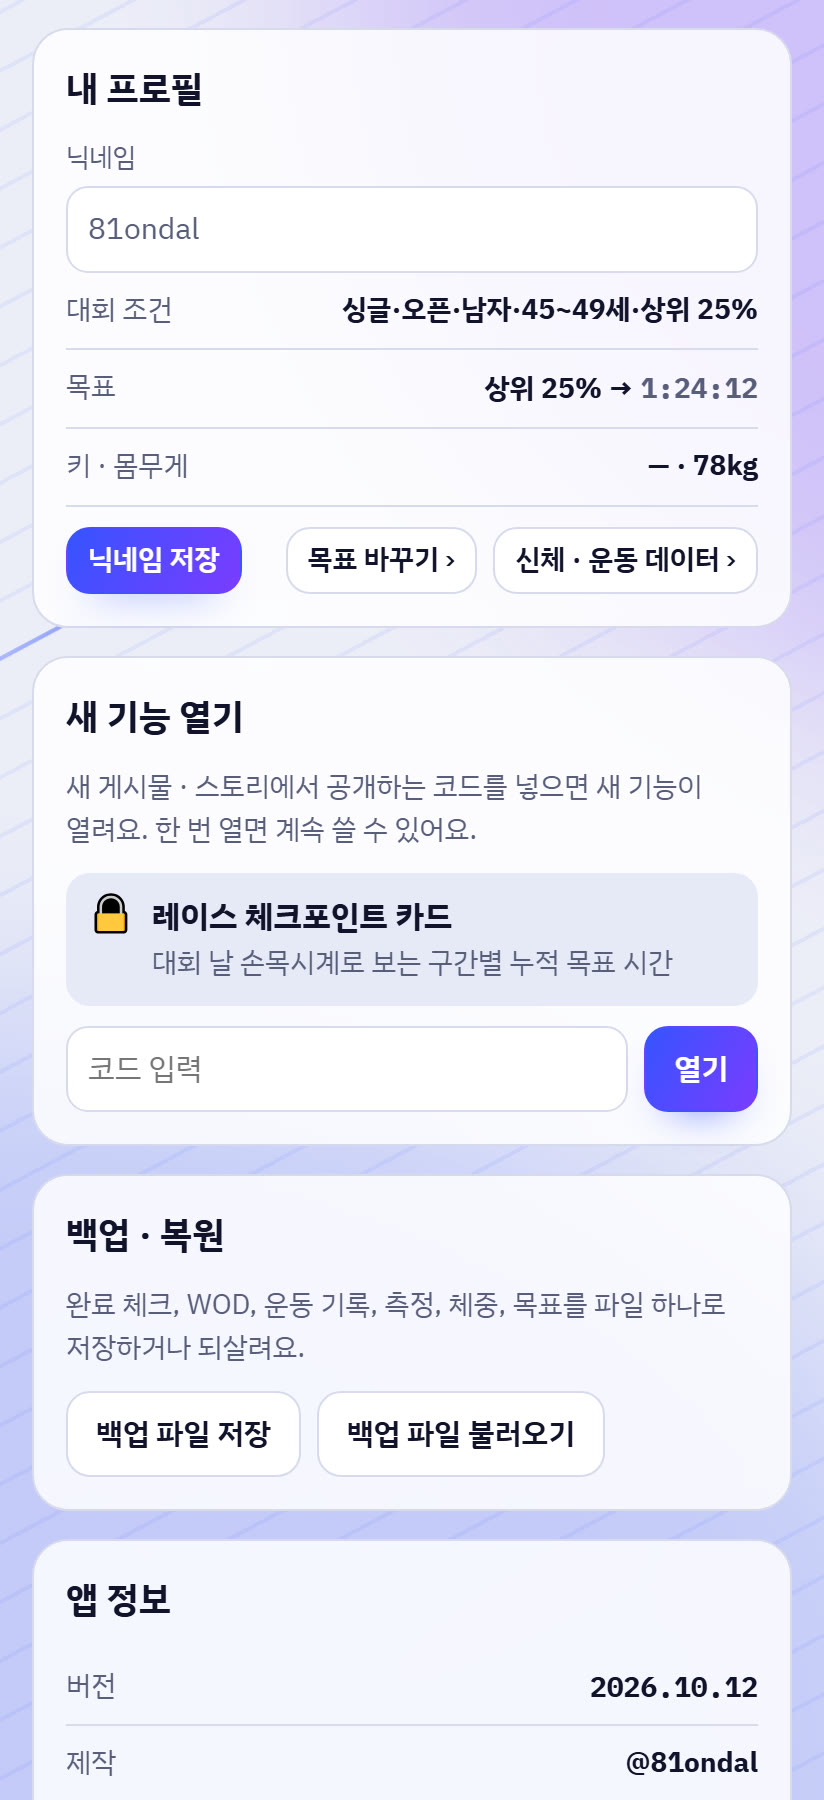
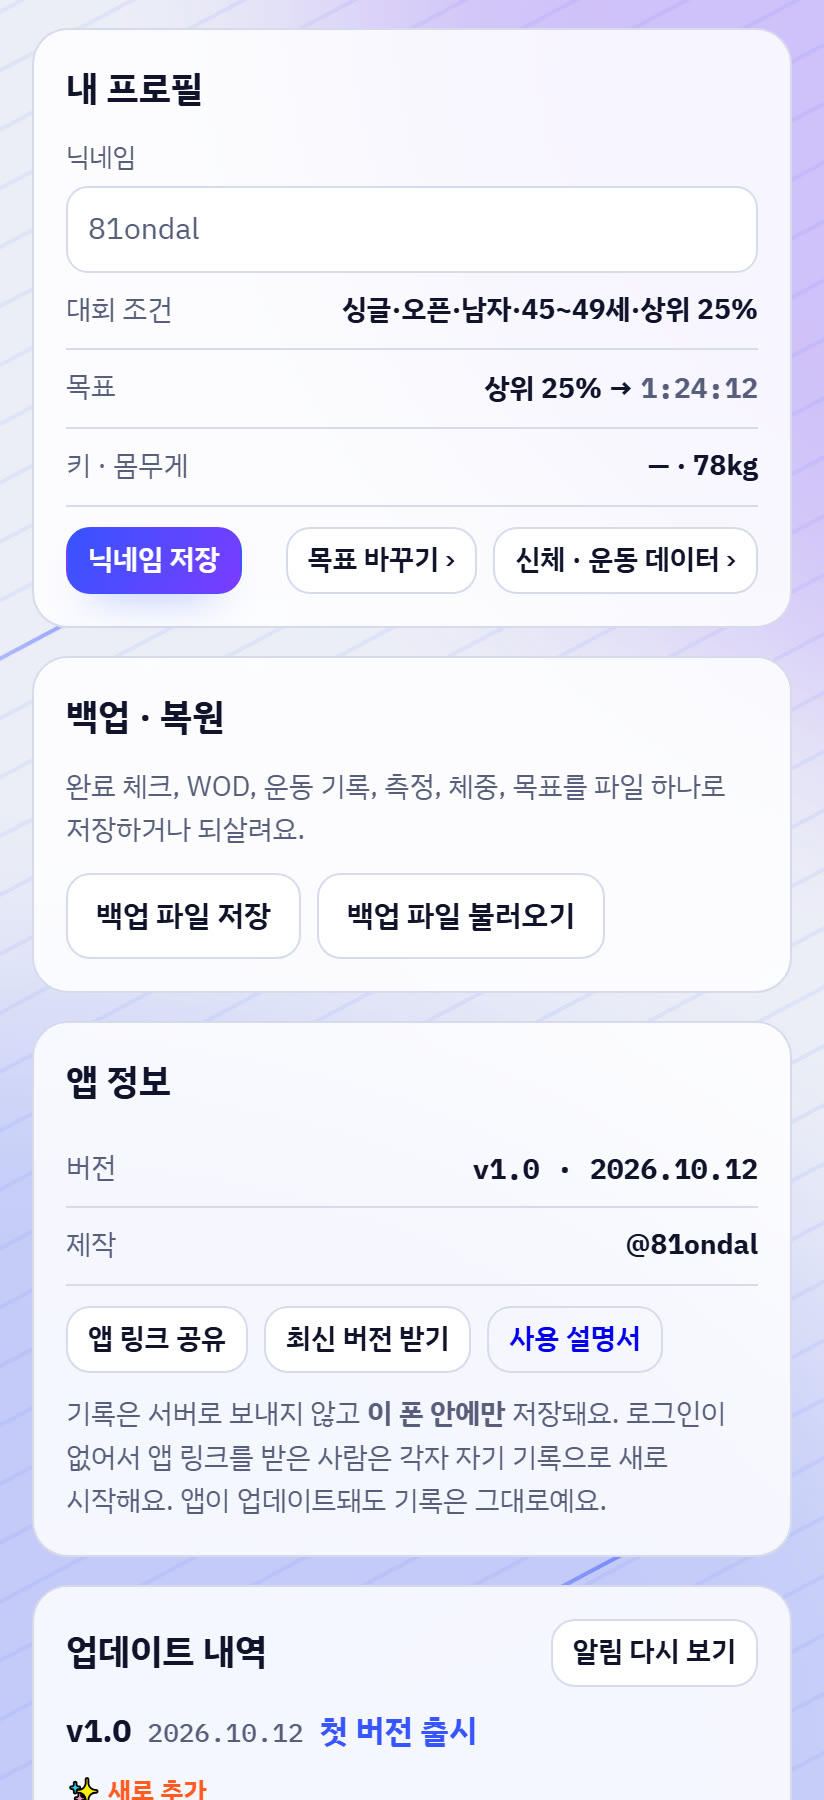
새 기능 열기(코드 잠금) 삭제 — 레이스 체크포인트 카드는 모두에게, 설명서 반영

diff --git a/index.html b/index.html
@@ -420,10 +420,6 @@ a.btn{text-decoration:none;display:inline-flex;align-items:center}
 .chg ul{margin:2px 0 0;padding-left:20px} .chg li{margin:3px 0;font-size:14.5px}
 .chglist{margin-top:10px}
 @keyframes nIn{from{opacity:0}} @keyframes nPop{from{opacity:0;transform:translateY(20px) scale(.96)}}
-.feats{display:flex;flex-direction:column;gap:8px;margin-top:10px}
-.feat{display:flex;gap:10px;align-items:flex-start;padding:10px 12px;border-radius:12px;background:var(--chip)} .feat .fi{font-size:18px;line-height:1.2} .feat.on{background:var(--ok-soft)} .feat.on .fi{color:var(--ok);font-weight:800}
-.lockc{position:relative;overflow:hidden} .lockc .lk{position:absolute;right:14px;top:10px;font-size:26px;opacity:.85}
-.lockprev{display:flex;flex-direction:column;gap:6px;margin-top:10px;filter:blur(2.5px);opacity:.7;pointer-events:none} .lockprev div{display:flex;justify-content:space-between;padding:6px 10px;border-radius:8px;background:var(--chip)}
 table.rcard td.big{font-size:17px;font-weight:800;color:var(--accent)} table.rcard tr.run td{background:var(--chip)} table.rcard th,table.rcard td{padding:7px 6px}
 .kv{display:flex;justify-content:space-between;gap:10px;padding:8px 0;border-bottom:1px solid var(--line);font-size:14px} .kv span{color:var(--muted)} .kv b{text-align:right}
 .why{background:var(--chip);border-radius:10px;padding:8px 10px}
@@ -910,7 +906,7 @@ var LSK='hyrox-incheon-2027-v1';
 var APP_INFO={ver:'2026.10.12',by:'@81ondal',url:'https://k1pale92.github.io/hyrox/',manual:'https://k1pale92.github.io/hyrox/manual.html'};
 var CHANGES=[
   {v:'1.0',d:'2026.10.12',t:'첫 버전 출시',
-   add:['홈 · 분석 · 운동기록 · 운동효과 · 시뮬레이션 · 가이드 · 내정보 7개 탭','시작 화면 · 초대 비밀번호','새 기능 열기(코드) — 첫 기능: 레이스 체크포인트 카드','새 버전 알림 (지금 보고 있는 이 창)'],
+   add:['홈 · 분석 · 운동기록 · 운동효과 · 시뮬레이션 · 가이드 · 내정보 7개 탭','시작 화면 · 초대 비밀번호','가이드: 레이스 체크포인트 카드 (대회 날 구간별 누적 목표 시간)','새 버전 알림 (지금 보고 있는 이 창)'],
    fix:[]}
 ];
 APP_INFO.v=CHANGES[0].v; APP_INFO.ver=CHANGES[0].d;
@@ -2072,7 +2068,6 @@ function renderMe(){
   h+='<div class="kv"><span>목표</span><b>'+(gi?'상위 '+g.pct+'% → <span class="num">'+fmtT(gi.T)+'</span>':'—')+'</b></div>';
   h+='<div class="kv"><span>키 · 몸무게</span><b>'+(p.height?p.height+'cm':'—')+' · '+(g.kg?g.kg+'kg':'—')+'</b></div>';
   h+='<div class="row" style="margin-top:10px"><button class="btn pri sm" data-act="mesave">닉네임 저장</button><span class="sp"></span><button class="btn sm" data-act="megoal">목표 바꾸기 ›</button><button class="btn sm" data-tab-go="est">신체 · 운동 데이터 ›</button></div></div>';
-  h+=featHtml();
   h+=backupHtml();
   h+='<div class="card"><h2>앱 정보</h2>';
   h+='<div class="kv"><span>버전</span><b class="num">v'+APP_INFO.v+' · '+APP_INFO.ver+'</b></div><div class="kv"><span>제작</span><b>'+esc(APP_INFO.by)+'</b></div>';
@@ -2099,26 +2094,8 @@ function gate(){
     else { document.getElementById('gate-m').textContent='비밀번호가 맞지 않아요'; g.classList.remove('shake'); void g.offsetWidth; g.classList.add('shake'); }
   });
 }
-var FEATURES=[
-  {id:'racecard',n:'레이스 체크포인트 카드',d:'대회 날 손목시계로 보는 구간별 누적 목표 시간',h:'dc9108b7',since:'2026.10.12'}
-];
-var FK='hx-feat';
-function featList(){ try{ var a=JSON.parse(localStorage.getItem(FK)||'[]'); return Array.isArray(a)?a:[]; }catch(e){ return []; } }
-function featOn(id){ return !IS_PWA||featList().indexOf(id)>=0; }
-function featUnlock(code){
-  var hh=gateHash(code), have=featList(), got=FEATURES.filter(function(f){ return f.h===hh&&have.indexOf(f.id)<0; });
-  if(got.length){ try{ localStorage.setItem(FK,JSON.stringify(have.concat(got.map(function(f){ return f.id; })))); }catch(e){} }
-  return {got:got,already:FEATURES.some(function(f){ return f.h===hh&&have.indexOf(f.id)>=0; })};
-}
-function featHtml(){
-  var h='<div class="card"><h2>새 기능 열기</h2><div class="muted">새 게시물 · 스토리에서 공개하는 코드를 넣으면 새 기능이 열려요. 한 번 열면 계속 쓸 수 있어요.</div>';
-  h+='<div class="feats">'+FEATURES.map(function(f){ var on=featOn(f.id); return '<div class="feat'+(on?' on':'')+'"><span class="fi">'+(on?'✓':'🔒')+'</span><div><b>'+esc(f.n)+'</b><div class="muted">'+esc(f.d)+'</div></div></div>'; }).join('')+'</div>';
-  if(IS_PWA) h+='<div class="row" style="margin-top:10px"><input type="text" id="feat-code" class="sp" placeholder="코드 입력" autocapitalize="characters" autocomplete="off" spellcheck="false" style="text-transform:uppercase"><button class="btn pri" data-act="featopen">열기</button></div>';
-  return h+'</div>';
-}
 function raceCardHtml(segT,rox){
-  var f=FEATURES[0];
-  if(!featOn('racecard')) return '<div class="card lockc"><div class="lk">🔒</div><h2>'+esc(f.n)+'</h2><div class="muted">'+esc(f.d)+'. 구간이 끝날 때마다 시계에 찍혀 있어야 할 시간을 크게 보여 줘요.</div><div class="lockprev">'+[1,2,3].map(function(i){ return '<div><span>'+SPL[i][0]+'</span><b class="num">?:??</b></div>'; }).join('')+'</div><button class="btn pri" data-tab-go="me" style="margin-top:12px">코드 넣고 열기 ›</button></div>';
+  var f={n:'레이스 체크포인트 카드'};
   var per=rox/16, cum=0;
   var h='<div class="card"><h2>'+esc(f.n)+'</h2><div class="muted" style="margin-bottom:8px">구간이 끝났을 때 시계가 이 시간보다 앞서 있으면 목표 페이스예요. 록스존 이동 시간은 구간마다 나눠 넣었어요.</div><div class="tbl fit"><table class="rcard"><tr><th class="n">#</th><th>구간</th><th class="n">구간</th><th class="n">시계</th></tr>';
   SPL.forEach(function(r,j){ cum+=segT[j]+per; h+='<tr'+(j%2===0?' class="run"':'')+'><td class="n muted">'+(j+1)+'</td><td>'+r[0].replace(/ \d+(m|개)$/,'')+'</td><td class="n num">'+fmtT(segT[j])+'</td><td class="n num big">'+fmtT(cum)+'</td></tr>'; });
@@ -2930,12 +2907,6 @@ document.addEventListener('click',function(e){
   if(a==='edprev'||a==='ednext'){ ui.edDay=key(keyDn(ui.edDay)+(a==='edprev'?-1:1)); render(); return; }
   if(a==='newsok'){ try{ localStorage.setItem(SEEN_K,CHANGES[0].v); }catch(err){} var nw=document.getElementById('news'); if(nw){ nw.classList.add('out'); setTimeout(function(){ nw.remove(); },250); } return; }
   if(a==='newsshow'){ showNews([CHANGES[0]]); return; }
-  if(a==='featopen'){
-    var fc=document.getElementById('feat-code'), r=featUnlock(fc?fc.value:'');
-    if(r.got.length){ toast('🎉 '+r.got.map(function(f){ return f.n; }).join(', ')+' 열림!'); render(); }
-    else toast(r.already?'이미 열린 기능이에요':'코드가 맞지 않아요');
-    return;
-  }
   if(a==='mesave'){ var nk=document.getElementById('me-nick'); store.goal.nick=(nk?nk.value:'').trim().slice(0,20); saveGoal(); toast('저장했어요'); render(); return; }
   if(a==='megoal'){ ui.goalEdit=true; go('today'); return; }
   if(a==='meshare'){

diff --git a/manual.html b/manual.html
@@ -78,7 +78,7 @@ a{color:var(--accent)}
       <li><b>달력</b>에 PT · 웨이트 · 러닝 · HYROX 일정을 넣고, 끝나면 <b>기록 카드</b>와 사진 남기기</li>
       <li>운동이 하이록스 종목에 준 <b>손상(피로)과 개선</b>을 게임 스탯처럼 보기</li>
       <li>대회처럼 구간을 나눠 재는 <b>시뮬레이션 타이머</b>, 식단 기준</li>
-      <li>게시물에서 공개하는 코드로 여는 <b>새 기능</b> (첫 기능: 레이스 체크포인트 카드)</li>
+      <li>대회 날 손목시계로 보는 <b>레이스 체크포인트 카드</b></li>
     </ul>
     <p class="tip" style="margin-bottom:0">기록 데이터 기준: <b>HYROX 인천 2026 (2026.5.15–17) 실제 결과</b>. 해마다 참가자 수준이 오르니 목표는 조금 여유 있게 잡는 게 좋아요.</p>
   </div>
@@ -234,10 +234,9 @@ a{color:var(--accent)}
       <li><b>식단</b>: 운동 종류에 맞춘 단백질 · 탄수화물 · 지방 · 열량 (처음 넣은 체중 기준)</li>
     </ul></div></div>
   <div class="pair" style="margin-top:18px"><img class="shot" src="manual/race.jpg" alt="레이스 체크포인트 카드" loading="lazy">
-    <div><h3 style="margin-top:0">🔓 레이스 체크포인트 카드 <span class="tag">새 기능</span></h3><ul>
+    <div><h3 style="margin-top:0">레이스 체크포인트 카드</h3><ul>
       <li>대회 날 손목시계로 보는 표예요. 16개 구간이 끝날 때마다 <b>시계가 몇 분이어야 하는지</b>(누적 목표)를 크게 보여 줘요.</li>
       <li>내 목표 기록에 맞춰 자동 계산되고, 록스존 이동 시간은 구간마다 나눠 넣었어요.</li>
-      <li>잠겨 있으면 🔒 표시와 <b>코드 넣고 열기</b> 버튼이 보여요 → <a href="#me">내정보 → 새 기능 열기</a></li>
       <li>캡처해서 잠금화면에 두거나 출력해서 손목에 붙여 두세요.</li>
     </ul></div></div>
 </section>
@@ -247,7 +246,6 @@ a{color:var(--accent)}
   <div class="pair"><img class="shot" src="manual/me.jpg" alt="내정보 화면" loading="lazy">
     <div><ul>
       <li><b>내 프로필</b>: 닉네임 저장, 대회 조건 · 목표 · 키 · 몸무게 확인. <b>목표 바꾸기</b>, <b>신체 · 운동 데이터</b>로 바로 이동</li>
-      <li><b>새 기능 열기</b>: @81ondal 게시물 · 스토리에서 공개하는 <b>코드</b>를 넣으면 새 기능이 열려요. 한 번 열면 계속 쓸 수 있고, 기존 기록은 절대 잠기지 않아요.</li>
       <li><b>백업 · 복원</b>: 기록을 파일로 저장하거나 되살리기</li>
       <li><b>앱 정보</b>: 버전, <b>앱 링크 공유</b>, <b>최신 버전 받기</b>, 사용 설명서</li>
       <li><b>업데이트 내역</b>: 버전마다 <b>새로 추가</b> · <b>수정 · 개선</b>된 내용. <b>알림 다시 보기</b>로 최근 알림을 다시 띄울 수 있어요.</li>
@@ -292,7 +290,7 @@ a{color:var(--accent)}
   <details><summary>새 버전 알림을 놓쳤어요</summary><p><b>내정보 → 업데이트 내역</b>에서 버전별 추가 · 수정 내용을 볼 수 있고, <b>알림 다시 보기</b>로 다시 띄울 수 있어요.</p></details>
   <details><summary>아이콘 오른쪽 아래에 작은 크롬 표시가 있어요</summary><p>'바로가기'로 설치된 거예요. 아이콘을 지우고, <b>Chrome</b>(인스타 · 카톡 안 브라우저 X)으로 연 다음 <b>⋮ → 앱 설치</b>(또는 홈 화면에 추가 → <b>설치</b>)로 다시 설치하세요. 기록은 그대로예요.</p></details>
   <details><summary>아이콘 · 앱 이름이 예전 그대로예요</summary><p>홈 화면 아이콘은 폰이 따로 저장해 두어서 늦게 바뀌어요. 바로 바꾸려면 백업 후 아이콘을 지우고 다시 설치하세요.</p></details>
-  <details><summary>비밀번호 · 새 기능 코드는 어디서 보나요?</summary><p>인스타그램 <b>@81ondal</b>의 앱 안내 게시물 · DM(비밀번호), 새 게시물 · 스토리(새 기능 코드)에서 공개해요.</p></details>
+  <details><summary>비밀번호는 어디서 보나요?</summary><p>인스타그램 <b>@81ondal</b>의 출정식 게시물에 댓글을 남기면 DM으로 앱 링크와 함께 보내 드려요.</p></details>
   <details><summary>아이폰에서도 되나요?</summary><p>사파리 → 공유 → 홈 화면에 추가로 설치해요. 대부분 기능이 같아요.</p></details>
 </section>
 

diff --git a/sw.js b/sw.js
@@ -1,5 +1,5 @@
 // 오프라인 캐시: 앱 파일은 네트워크 우선(업데이트 반영), 폰트 등 외부 파일은 캐시 우선
-const VERSION = '68d8748f';
+const VERSION = '2eb2b3c5';
 const CACHE = 'hyrox-' + VERSION;
 const CORE = ['./', 'index.html', 'manifest.webmanifest', 'icon-192.png', 'icon-512.png'];
 
